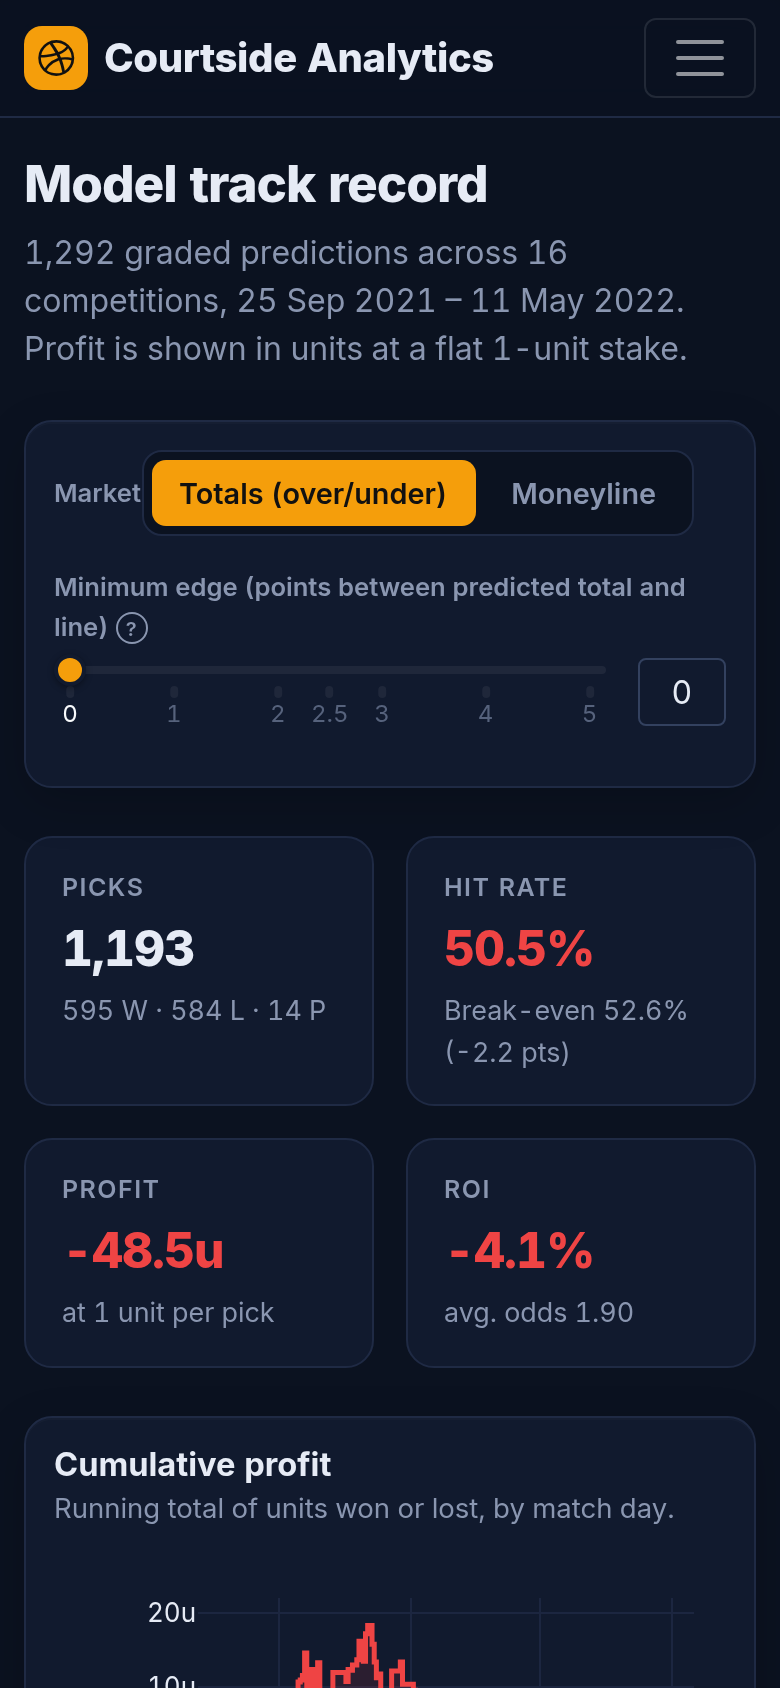
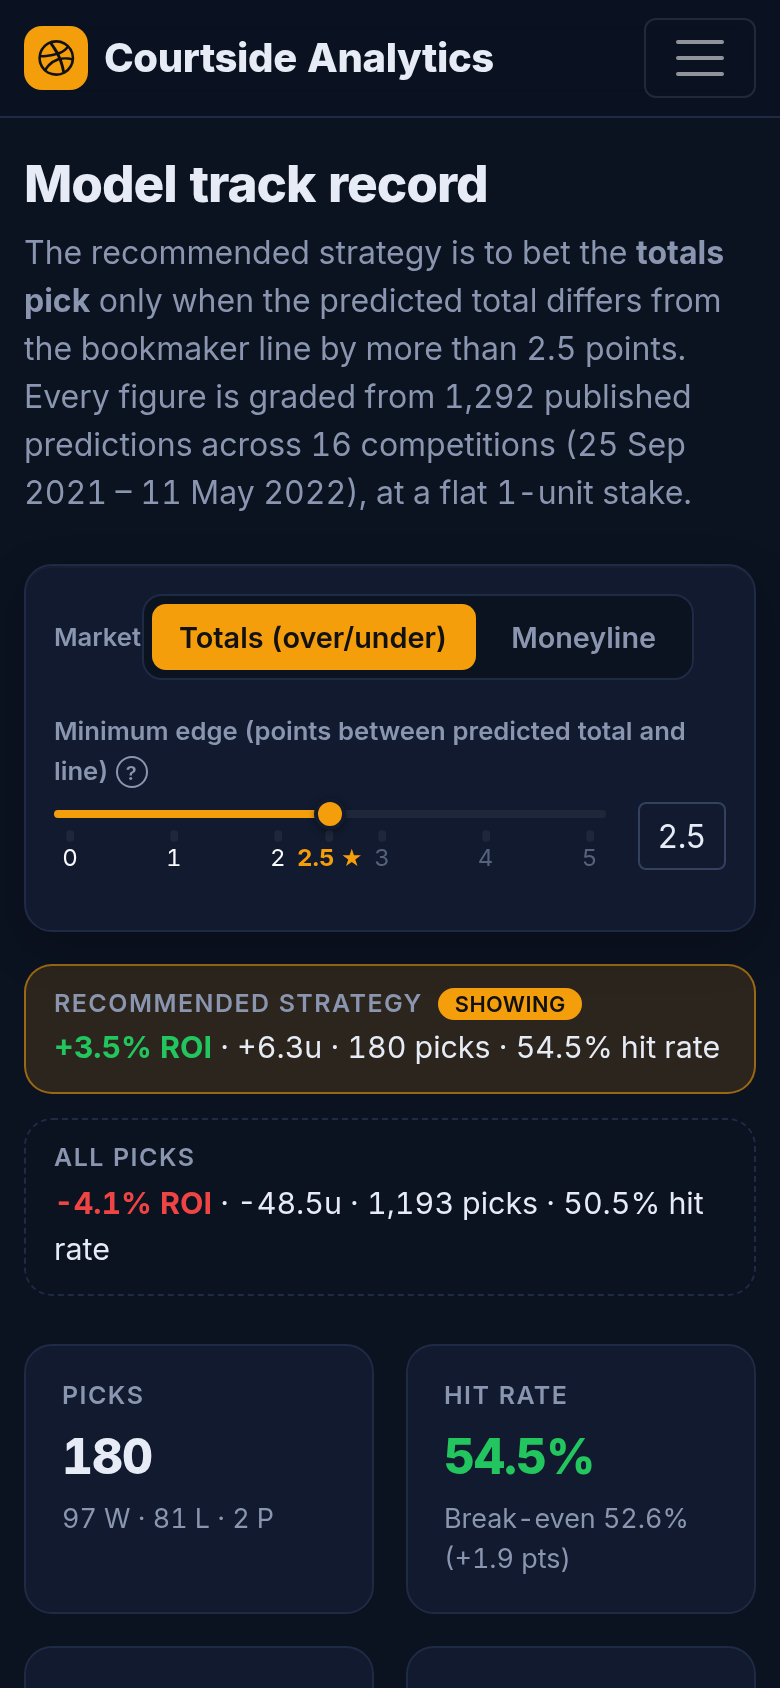
Add MIT licence and record owner decisions in the plan
Claude-Session: https://claude.ai/code/session_01CRRLyQctYVny94uMbK8NYg

diff --git a/docs/REVIVAL_PLAN.md b/docs/REVIVAL_PLAN.md
@@ -1,6 +1,6 @@
 # Revival Plan: Betting Dashboard
 
-**Status:** Phases 0–3 are done on branch `claude/zen-sagan-i79dgv`. Phases 4–6 need decisions from the owner (see [§11](#11-open-questions-for-the-owner)).
+**Status:** Phases 0–3 are done on branch `claude/zen-sagan-i79dgv`. The owner chose a showcase first, so Phase 4 (live predictions) is deferred. Phases 5–6 are the backlog. See [§11](#11-owner-decisions-and-open-questions).
 **Last updated:** 2026-09-27
 
 This document audits the parked project, sets out what it should become, and lays out the steps to get there. It is meant to stay accurate: when the plan changes, update this file in the same commit.
@@ -19,7 +19,7 @@ This document audits the parked project, sets out what it should become, and lay
 8. [Roadmap](#8-roadmap)
 9. [Phase 4: bringing the prediction pipeline back](#9-phase-4-bringing-the-prediction-pipeline-back)
 10. [Risks, legal and responsible-gambling notes](#10-risks-legal-and-responsible-gambling-notes)
-11. [Open questions for the owner](#11-open-questions-for-the-owner)
+11. [Owner decisions and open questions](#11-owner-decisions-and-open-questions)
 12. [Decision log](#12-decision-log)
 
 ---
@@ -200,7 +200,7 @@ When the pipeline returns (Phase 4), a scheduled job writes new Parquet files, a
 
 | Route | Page | Replaces | Purpose |
 |---|---|---|---|
-| `/` | **Overview** | – | Track record at a glance: KPI cards (picks, hit rate, ROI, units won) for totals and moneyline, a cumulative-profit chart, per-league performance, an "edge threshold" slider |
+| `/` | **Overview** | – | Track record, opening on the **recommended strategy** (totals, edge > 2.5): a comparison strip (recommended vs all picks), KPI cards (picks, hit rate vs break-even, units, ROI), cumulative profit, ROI by competition, and an edge slider plus an edge-threshold chart that shows why 2.5 |
 | `/predictions` | **Predictions** | Predictions | Latest slate (labelled with its date, plus a "paused" banner while stale) and the full graded archive with win/loss/push highlighting and filters |
 | `/explorer` | **League explorer** | Home (left) | Scatter of any two *meaningful* features with filters that actually combine, colour by league/outcome, plus scoring-trend and home-advantage charts |
 | `/teams` | **Teams** | Home (right) | Pick a team: record, points for/against by season, home/away split, over/under record against the line, recent games |
@@ -285,7 +285,7 @@ These are shown in the UI, not hidden. Being upfront about them is what makes th
 | **1. Foundation** | Package layout, pyproject/uv, cleaning + analytics modules with tests, Parquet artefacts, build script | `uv run pytest` green, `scripts/build_data.py` reproduces `data/processed/` byte-for-byte | ✅ Done |
 | **2. UI rebuild** | Six pages from §5, design system, responsive layout, no third-party images | Every page renders with no console errors and has no horizontal overflow at phone width (checked at 390 px) | ✅ Done |
 | **3. Ship** | Dockerfile, render.yaml, CI workflow, README, DATA.md | `docker build` + container smoke test pass, CI green | ✅ Done: image built and smoke-tested locally. CI runs on the first push/PR. Creating the Render service needs the owner's account |
-| **4. Live pipeline** | Ingestion for fixtures/odds/results, retrained model, scheduled refresh | New predictions appear daily without manual steps. Archive auto-grades | ⏳ Needs owner input (§9, §11) |
+| **4. Live pipeline** | Ingestion for fixtures/odds/results, retrained model, scheduled refresh | New predictions appear daily without manual steps. Archive auto-grades | ⏸ Deferred: the owner chose a showcase first. Restart from the original code if it turns up (§9) |
 | **5. Polish and growth** | Custom domain, analytics, OG/social preview image, light theme, "share this pick" links, smaller Docker image, Lighthouse audit against the §5.3 targets | – | Backlog |
 | **6. Model quality** | Proper backtest harness, calibration plots, closing-line value (CLV) tracking, per-league models | Published backtest report in the app | Backlog |
 
@@ -327,18 +327,24 @@ The repo contains the *outputs* of a pipeline (feature-rich game rows and predic
 
 ---
 
-## 11. Open questions for the owner
+## 11. Owner decisions and open questions
 
-I made a working choice for each so work could go ahead. Change any of them if they don't fit.
+**Answered (2026-09-27)**
 
-1. **Pipeline code.** Do you still have the scraper and model code (the notebooks/scripts that produced `next_daysNN.csv`)? *Working assumption:* no, so Phase 4 plans a rebuild.
-2. **Live predictions: yes or no?** Should the shared version show live daily picks (Phase 4), or is a polished historical and track-record showcase enough for now? *Working assumption:* showcase first, live later.
-3. **Name and branding.** The git history contains a `neurocastlogo.jpg`. Is "Neurocast" the brand you want? *Working assumption:* the neutral name "Courtside Analytics", changeable with the `APP_NAME` env var.
-4. **NBA in the track record.** The old app hid NBA picks from all prediction stats. *Working assumption:* include every league, with a league filter, so the record is complete and honest.
-5. **Audience.** Recruiters/portfolio, friends who bet, or a public product? This affects how much we invest in Phase 5 (domain, analytics, SEO).
-6. **Licence.** Should the repo carry an open-source licence (e.g. MIT for code, with the data excluded)? *Working assumption:* none added. It's your call.
-7. **Hosting budget.** Is Render's free tier (with cold starts) OK, or is ~$7/month for always-on acceptable?
-8. **Contact.** Show an email on the About page? *Working assumption:* only a GitHub link unless `CONTACT_EMAIL` is set.
+| # | Question | Answer |
+|---|---|---|
+| 1 | Is the scraper/model code still around? | Not to hand; the owner may find it. If it turns up, Phase 4 starts from it (§9) instead of a rebuild |
+| 2 | Live predictions or showcase? | **Showcase** for now. Phase 4 is deferred |
+| 3 | Name | **Courtside Analytics** |
+| 4 | Include NBA picks in the record? | **Yes**, every league is included |
+| 5 | Licence | **MIT** for the code (`LICENSE`) |
+| 6 | Default view | **The recommended strategy** (totals picks with edge > 2.5) is what the Overview and the Predictions track record open on. The full record is one click away and always shown alongside |
+
+**Still open** (the working assumption stands until answered)
+
+1. **Audience:** recruiters/portfolio, friends who bet, or a public product? This decides how much Phase 5 is worth. *Assumed:* portfolio/showcase.
+2. **Hosting budget:** is Render's free tier (cold starts) OK, or ~$7/month for always-on? *Assumed:* free.
+3. **Contact:** show an email? *Assumed:* GitHub link only, unless `CONTACT_EMAIL` is set.
 
 ---
 
@@ -353,3 +359,5 @@ I made a working choice for each so work could go ahead. Change any of them if t
 | 2026-09-27 | Removed all third-party player photos | Copyright/likeness |
 | 2026-09-27 | dash-ag-grid replaces DataTable | Better UX, server-side row model, active development |
 | 2026-09-27 | Bootstrap, Bootstrap Icons and Inter are vendored under `assets/vendor` | No third-party requests (privacy, speed, works behind strict networks) |
+| 2026-09-27 | Overview and the Predictions track record open on the recommended strategy (edge > 2.5), with the all-picks figures always shown next to it | Owner request. It is the strategy the original site published. Showing the full record alongside keeps it honest |
+| 2026-09-27 | MIT licence; name "Courtside Analytics" | Owner decisions |
